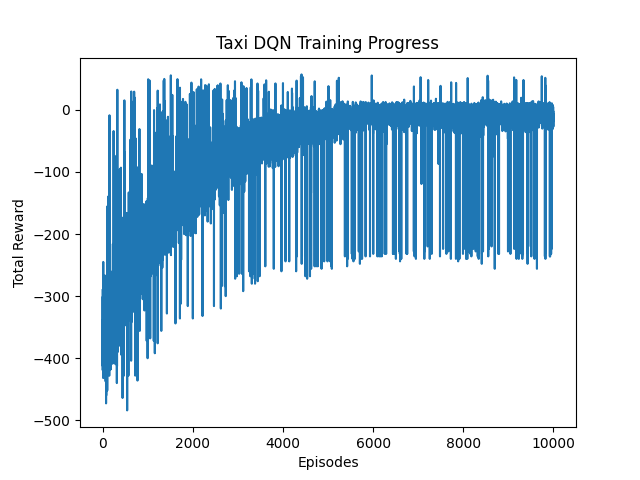
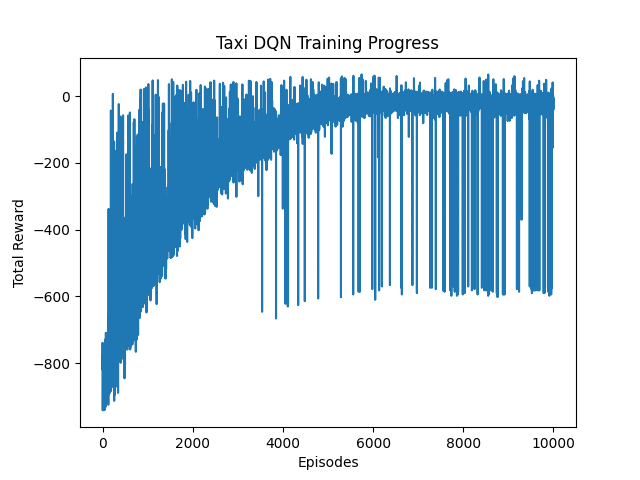
final update

diff --git a/train_agent.py b/train_agent.py
@@ -27,9 +27,9 @@ class TrainingManager:
         self.episode_len.append(episode_step)
         self.episode_cnt += 1
 
-    def print_status(self, epsilon, last_n_episodes=100):
+    def print_status(self, epsilon, obstacle_ratio, last_n_episodes=100):
         avg_reward = np.mean(self.rewards_per_episode[-last_n_episodes:])
-        print(f"🚀 Episode {self.episode_cnt}/{self.episodes}, Average Reward: {avg_reward:.2f}, Epsilon: {epsilon:.3f}")
+        print(f"🚀 Episode {self.episode_cnt}/{self.episodes}, Average Reward: {avg_reward:.2f}, Epsilon: {epsilon:.3f}, Obstacle Ratio: {obstacle_ratio:.3f}")
 
 class ReplayBuffer:
     
@@ -68,7 +68,7 @@ class ReplayBuffer:
 
 @click.command()
 @click.option('-n', '--num_episodes', default=10000)
-@click.option('-l', '--lr', default=1e-4)
+@click.option('-l', '--lr', default=5e-4)
 @click.option('-g', '--gamma', default=0.99)
 @click.option('-t', '--tau', default=0.005)
 @click.option('--epsilon_start', default=1.0)
@@ -76,10 +76,11 @@ class ReplayBuffer:
 @click.option('--decay_rate', default=0.9995)
 @click.option('--batch_size', default=256)
 @click.option('--buffer_size', default=50000)
+@click.option('--max_obstacle_ratio', default=0.4)
 def train_dqn(
         num_episodes, lr, gamma, tau,
         epsilon_start, epsilon_end, 
-        decay_rate, batch_size, buffer_size
+        decay_rate, batch_size, buffer_size, max_obstacle_ratio
     ):
 
     wandb_run = wandb.init(
@@ -100,10 +101,11 @@ def train_dqn(
     manager = TrainingManager(episodes=num_episodes)
     buffer = ReplayBuffer(buffer_size=buffer_size)
 
+    obstacle_ratio = 0.0
     epsilon = epsilon_start
 
     for episode in range(num_episodes):
-        env = DynamicTaxiEnv(grid_size=random.randint(5, 10), fuel_limit=500)
+        env = DynamicTaxiEnv(grid_size=random.randint(5, 10), fuel_limit=500, obstacle_ratio=obstacle_ratio)
         obs, _ = env.reset()
         policy.reset()
 
@@ -140,16 +142,18 @@ def train_dqn(
 
         manager.add_episode(total_reward=total_reward, episode_step=episode_step)
         epsilon = max(epsilon_end, epsilon * decay_rate)
+        obstacle_ratio += max_obstacle_ratio / num_episodes
 
         wandb_run.log({
             'epsilon': epsilon,
             'total_reward': total_reward,
             'loss': update_log['loss'] if update_log is not None else 0.0,
             'episode_steps': episode_step,
-            'episode': episode
+            'episode': episode,
+            'obstacle_ratio': obstacle_ratio,
         })
 
-        manager.print_status(epsilon=epsilon)
+        manager.print_status(epsilon=epsilon, obstacle_ratio=obstacle_ratio)
 
     policy.save_checkpoint()
     

diff --git a/dynamic_taxi_env.py b/dynamic_taxi_env.py
@@ -9,7 +9,7 @@ from simple_custom_taxi_env import SimpleTaxiEnv
 from collections import deque
 
 class DynamicTaxiEnv(SimpleTaxiEnv):
-    def __init__(self, grid_size=5, fuel_limit=50):
+    def __init__(self, grid_size=5, fuel_limit=50, obstacle_ratio=0.0):
         """
         Custom Taxi environment supporting different grid sizes.
         """
@@ -23,7 +23,7 @@ class DynamicTaxiEnv(SimpleTaxiEnv):
         
         # Generate random obstacles ensuring station accessibility
         potential_obstacles = [(x, y) for x in range(grid_size) for y in range(grid_size) if (x, y) not in self.stations]
-        num_obstacles = random.randint(0, int(len(potential_obstacles) * 0.5))  # Random number of obstacles
+        num_obstacles = int(len(potential_obstacles) * obstacle_ratio) # Random number of obstacles
         
         while True:
             self.obstacles = set(random.sample(potential_obstacles, num_obstacles))

diff --git a/dqn_agent.py b/dqn_agent.py
@@ -153,7 +153,7 @@ class DQNAgent:
         loss = self.loss_fn(state_action_values, expected_state_action_values)
         self.optimizer.zero_grad()
         loss.backward()
-        torch.nn.utils.clip_grad_norm_(self.q_network.parameters(), max_norm=0.5)
+        torch.nn.utils.clip_grad_norm_(self.q_network.parameters(), max_norm=1.0)
         self.optimizer.step()
 
         q_target_network_state_dict = self.q_target_network.state_dict()
